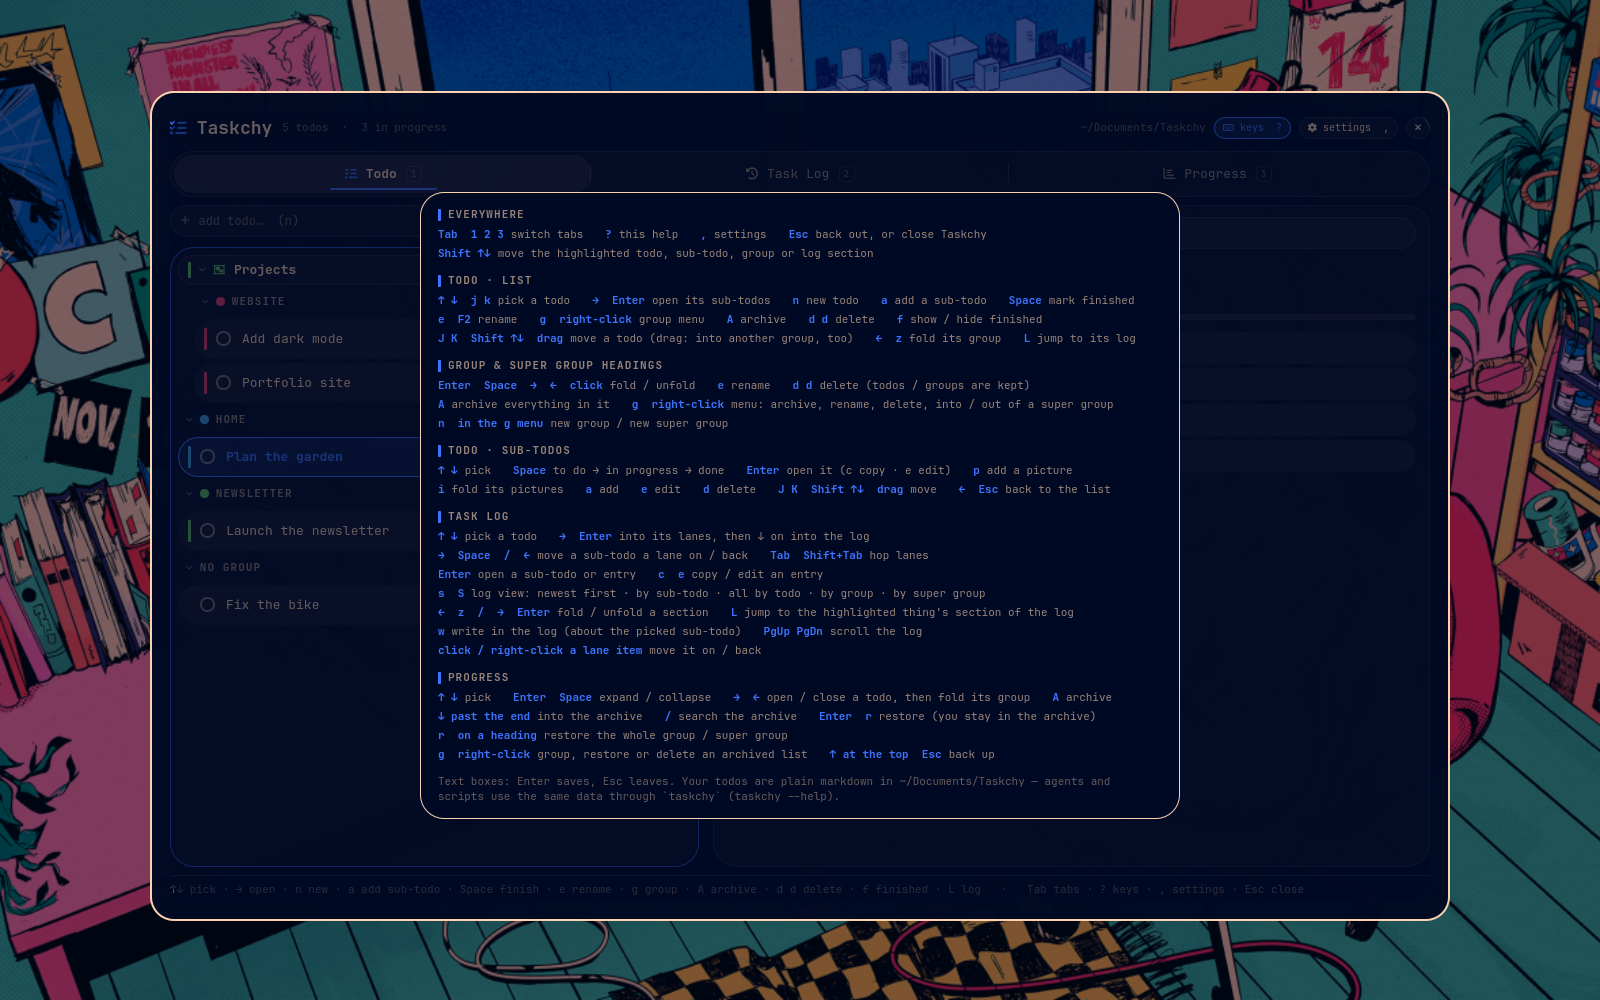
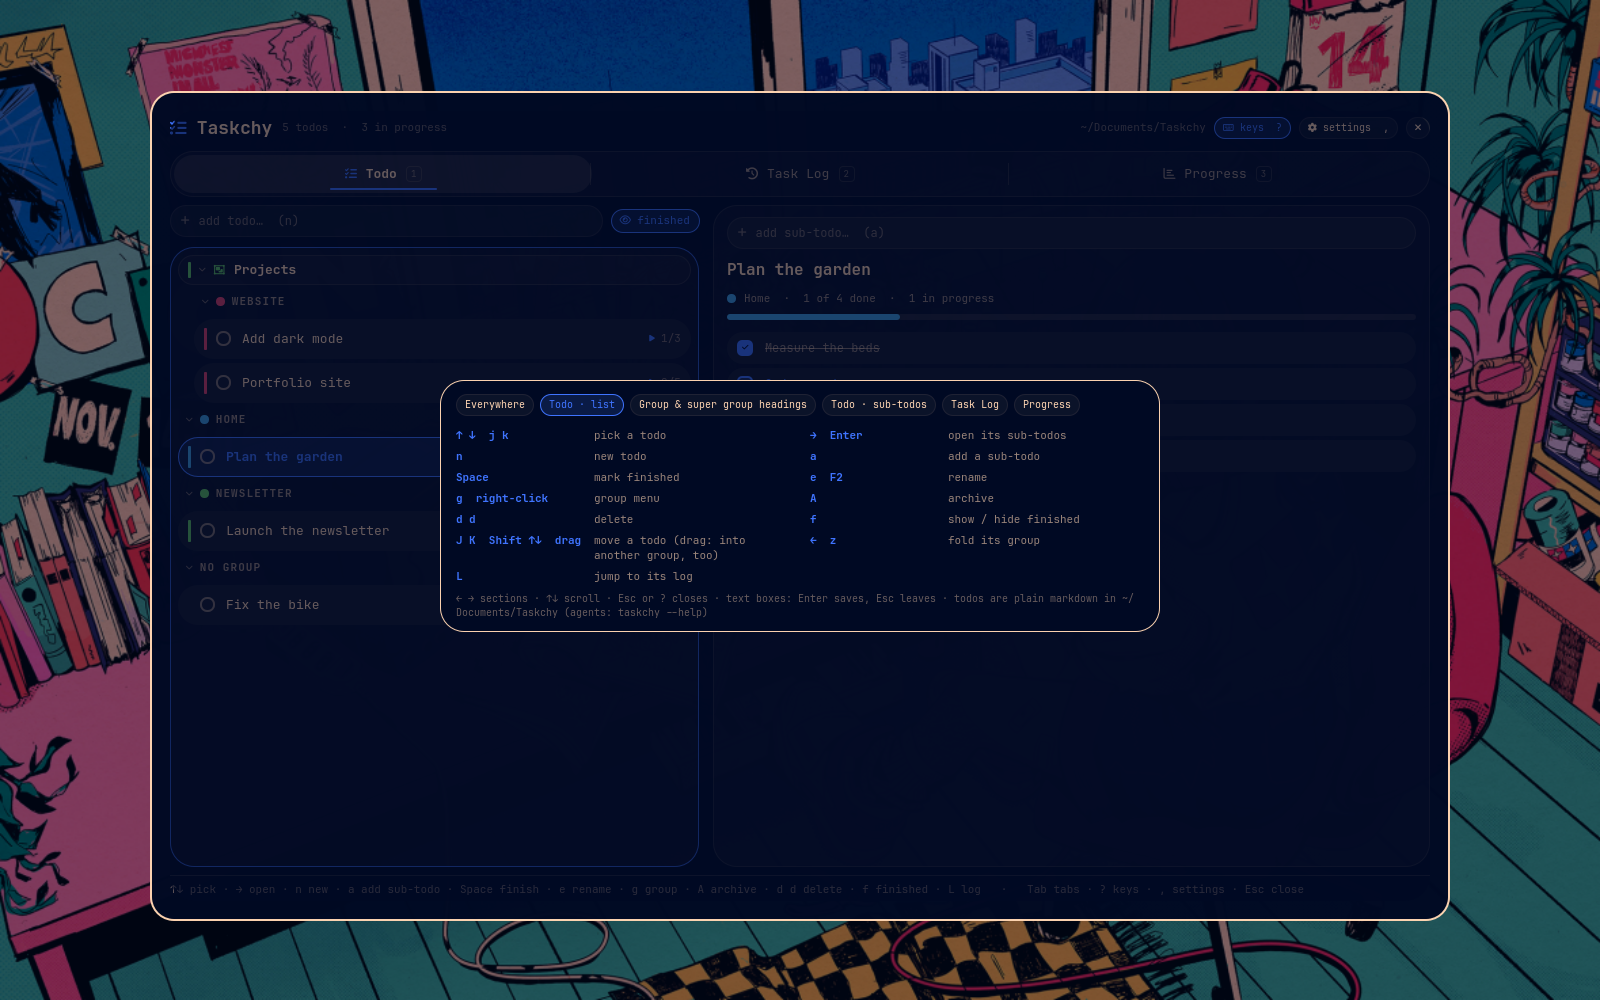
Keys help: one section at a time
The ? sheet listed every section at once and ran the full height of the
window. It now shows one section (the tab you're on first) as a two-column
key | action table, with section chips (or ← → / Tab) to switch, ↑↓ to
scroll a long one, and a height cap.

Changed region(s): [[0.2812, 0.186, 0.6875, 0.682], [0.2812, 0.682, 0.5312, 0.806], [0.5312, 0.744, 0.5625, 0.775]]

diff --git a/TaskchyView.qml b/TaskchyView.qml
@@ -1039,6 +1039,8 @@ Item {
     if (showHelp) {
       // the keys sheet takes the keys while it's up
       if (k === Qt.Key_Escape || txt === "q") showHelp = false
+      else if (k === Qt.Key_Left || txt === "h" || k === Qt.Key_Backtab) { helpSection = (helpSection + helpSections.length - 1) % helpSections.length; helpFlick.contentY = 0 }
+      else if (k === Qt.Key_Right || txt === "l" || k === Qt.Key_Tab) { helpSection = (helpSection + 1) % helpSections.length; helpFlick.contentY = 0 }
       else if (k === Qt.Key_Down || txt === "j") helpFlick.flick(0, -700)
       else if (k === Qt.Key_Up || txt === "k") helpFlick.flick(0, 700)
       else if (k === Qt.Key_PageDown || k === Qt.Key_Space) helpFlick.flick(0, -2200)
@@ -3293,76 +3295,101 @@ Item {
     radius: tasks.rad
     MouseArea { anchors.fill: parent; onClicked: tasks.showHelp = false }
   }
+  // one section at a time (the tab you're on first): chips or ← → switch
+  property int helpSection: 0
+  readonly property var helpSections: [
+    ["Everywhere", [["Tab  1 2 3", "switch tabs"], ["?", "this help"], [",", "settings"], ["Esc", "back out, or close Taskchy"], ["Shift ↑↓", "move the highlighted todo, sub-todo, group or log section"]]],
+    ["Todo · list", [["↑ ↓  j k", "pick a todo"], ["→  Enter", "open its sub-todos"], ["n", "new todo"], ["a", "add a sub-todo"],
+                     ["Space", "mark finished"], ["e  F2", "rename"], ["g  right-click", "group menu"], ["A", "archive"], ["d d", "delete"], ["f", "show / hide finished"],
+                     ["J K  Shift ↑↓  drag", "move a todo (drag: into another group, too)"], ["←  z", "fold its group"], ["L", "jump to its log"]]],
+    ["Group & super group headings", [["Enter  Space  →  ←  click", "fold / unfold"], ["e", "rename"], ["d d", "delete (todos / groups are kept)"], ["A", "archive everything in it"],
+                                      ["g  right-click", "menu: archive, rename, delete, into / out of a super group"], ["n  in the g menu", "new group / new super group"]]],
+    ["Todo · sub-todos", [["↑ ↓", "pick"], ["Space", "to do → in progress → done"], ["Enter", "open it (c copy · e edit)"], ["p", "add a picture"], ["i", "fold its pictures"], ["a", "add"], ["e", "edit"],
+                          ["d", "delete"], ["J K  Shift ↑↓  drag", "move"], ["←  Esc", "back to the list"]]],
+    ["Task Log", [["↑ ↓", "pick a todo"], ["→  Enter", "into its lanes, then ↓ on into the log"], ["→  Space  /  ←", "move a sub-todo a lane on / back"], ["Tab  Shift+Tab", "hop lanes"],
+                  ["Enter", "open a sub-todo or entry"], ["c  e", "copy / edit an entry"], ["s  S", "log view: newest first · by sub-todo · all by todo · by group · by super group"],
+                  ["←  z  /  →  Enter", "fold / unfold a section"], ["L", "jump to the highlighted thing's section of the log"], ["w", "write in the log (about the picked sub-todo)"], ["PgUp PgDn", "scroll the log"],
+                  ["click / right-click a lane item", "move it on / back"]]],
+    ["Progress", [["↑ ↓", "pick"], ["Enter  Space", "expand / collapse"], ["→  ←", "open / close a todo, then fold its group"], ["A", "archive"], ["↓ past the end", "into the archive"],
+                  ["/", "search the archive"], ["Enter  r", "restore (you stay in the archive)"], ["r  on a heading", "restore the whole group / super group"], ["g  right-click", "group, restore or delete an archived list"], ["↑ at the top  Esc", "back up"]]]
+          ]
+  onShowHelpChanged: if (showHelp) { helpSection = tab === "log" ? 4 : tab === "progress" ? 5 : 1; helpFlick.contentY = 0 }
   Rectangle {
     visible: tasks.showHelp
     z: 60
     anchors.centerIn: parent
-    width: Math.min(parent.width - 40, tasks.px(760))
-    height: Math.min(parent.height - 40, helpFlick.contentHeight + 30)
+    width: Math.min(parent.width - 40, tasks.px(720))
+    height: Math.min(parent.height - 40, helpHead.height + helpFlick.contentHeight + helpFoot.implicitHeight + 46)
     radius: tasks.rad
     color: tasks.solid
     border.color: Color.menu.border
     border.width: 1
     MouseArea { anchors.fill: parent; onClicked: tasks.showHelp = false }
+    Flow {
+      id: helpHead
+      x: 16; y: 14
+      width: parent.width - 32
+      spacing: 6
+      Repeater {
+        model: tasks.helpSections
+        Btn {
+          required property var modelData
+          required property int index
+          text: modelData[0]
+          size: 10
+          on: tasks.helpSection === index
+          onClicked: { tasks.helpSection = index; helpFlick.contentY = 0 }
+        }
+      }
+    }
     Flickable {
       id: helpFlick
-      x: 18; y: 15
-      width: parent.width - 36
-      height: parent.height - 30
+      x: 16; y: helpHead.y + helpHead.height + 12
+      width: parent.width - 32
+      height: Math.max(0, parent.height - y - helpFoot.implicitHeight - 22)
       clip: true
-      contentHeight: helpText.implicitHeight
+      contentHeight: helpGrid.implicitHeight
       boundsBehavior: Flickable.StopAtBounds
-      Column {
-        id: helpText
+      // key | what it does, two pairs to a row
+      Grid {
+        id: helpGrid
         width: helpFlick.width
-        spacing: 12
+        columns: width > tasks.px(520) ? 2 : 1
+        columnSpacing: 20
+        rowSpacing: 6
         Repeater {
-          model: [
-            ["Everywhere", [["Tab  1 2 3", "switch tabs"], ["?", "this help"], [",", "settings"], ["Esc", "back out, or close Taskchy"], ["Shift ↑↓", "move the highlighted todo, sub-todo, group or log section"]]],
-            ["Todo · list", [["↑ ↓  j k", "pick a todo"], ["→  Enter", "open its sub-todos"], ["n", "new todo"], ["a", "add a sub-todo"],
-                             ["Space", "mark finished"], ["e  F2", "rename"], ["g  right-click", "group menu"], ["A", "archive"], ["d d", "delete"], ["f", "show / hide finished"],
-                             ["J K  Shift ↑↓  drag", "move a todo (drag: into another group, too)"], ["←  z", "fold its group"], ["L", "jump to its log"]]],
-            ["Group & super group headings", [["Enter  Space  →  ←  click", "fold / unfold"], ["e", "rename"], ["d d", "delete (todos / groups are kept)"], ["A", "archive everything in it"],
-                                              ["g  right-click", "menu: archive, rename, delete, into / out of a super group"], ["n  in the g menu", "new group / new super group"]]],
-            ["Todo · sub-todos", [["↑ ↓", "pick"], ["Space", "to do → in progress → done"], ["Enter", "open it (c copy · e edit)"], ["p", "add a picture"], ["i", "fold its pictures"], ["a", "add"], ["e", "edit"],
-                                  ["d", "delete"], ["J K  Shift ↑↓  drag", "move"], ["←  Esc", "back to the list"]]],
-            ["Task Log", [["↑ ↓", "pick a todo"], ["→  Enter", "into its lanes, then ↓ on into the log"], ["→  Space  /  ←", "move a sub-todo a lane on / back"], ["Tab  Shift+Tab", "hop lanes"],
-                          ["Enter", "open a sub-todo or entry"], ["c  e", "copy / edit an entry"], ["s  S", "log view: newest first · by sub-todo · all by todo · by group · by super group"],
-                          ["←  z  /  →  Enter", "fold / unfold a section"], ["L", "jump to the highlighted thing's section of the log"], ["w", "write in the log (about the picked sub-todo)"], ["PgUp PgDn", "scroll the log"],
-                          ["click / right-click a lane item", "move it on / back"]]],
-            ["Progress", [["↑ ↓", "pick"], ["Enter  Space", "expand / collapse"], ["→  ←", "open / close a todo, then fold its group"], ["A", "archive"], ["↓ past the end", "into the archive"],
-                          ["/", "search the archive"], ["Enter  r", "restore (you stay in the archive)"], ["r  on a heading", "restore the whole group / super group"], ["g  right-click", "group, restore or delete an archived list"], ["↑ at the top  Esc", "back up"]]]
-          ]
-          Column {
+          model: (tasks.helpSections[tasks.helpSection] || ["", []])[1]
+          Row {
             required property var modelData
-            width: helpText.width
-            spacing: 5
-            Heading { text: parent.modelData[0] }
-            Flow {
-              width: parent.width
-              spacing: 4
-              Repeater {
-                model: parent.parent.modelData[1]
-                Row {
-                  required property var modelData
-                  rightPadding: 18
-                  spacing: 7
-                  Text { text: parent.modelData[0]; color: tasks.accent; font.family: tasks.font; font.pixelSize: tasks.px(11); font.bold: true }
-                  Text { text: parent.modelData[1]; color: tasks.dim; font.family: tasks.font; font.pixelSize: tasks.px(11) }
-                }
-              }
+            width: (helpGrid.width - (helpGrid.columns - 1) * helpGrid.columnSpacing) / helpGrid.columns
+            spacing: 8
+            readonly property real keyW: Math.min(tasks.px(130), width * 0.42)
+            Text {
+              width: parent.keyW
+              wrapMode: Text.Wrap
+              text: parent.modelData[0]
+              color: tasks.accent; font.family: tasks.font; font.pixelSize: tasks.px(11); font.bold: true
+            }
+            Text {
+              width: parent.width - parent.keyW - 8
+              wrapMode: Text.Wrap
+              text: parent.modelData[1]
+              color: tasks.dim; font.family: tasks.font; font.pixelSize: tasks.px(11)
             }
           }
         }
-        Text {
-          width: parent.width
-          wrapMode: Text.Wrap
-          text: "Text boxes: Enter saves, Esc leaves. Your todos are plain markdown in " + tasks.shortPath(tasks.folder)
-            + " — agents and scripts use the same data through `taskchy` (taskchy --help)."
-          color: tasks.faint
-          font.family: tasks.font; font.pixelSize: tasks.px(10.5) }
       }
     }
+    Text {
+      id: helpFoot
+      x: 16
+      anchors.bottom: parent.bottom; anchors.bottomMargin: 12
+      width: parent.width - 32
+      wrapMode: Text.Wrap
+      text: "← → sections · ↑↓ scroll · Esc or ? closes · text boxes: Enter saves, Esc leaves · todos are plain markdown in "
+        + tasks.shortPath(tasks.folder) + " (agents: taskchy --help)"
+      color: tasks.faint
+      font.family: tasks.font; font.pixelSize: tasks.px(10) }
   }
 
   // ================================================== a picture, shown big
